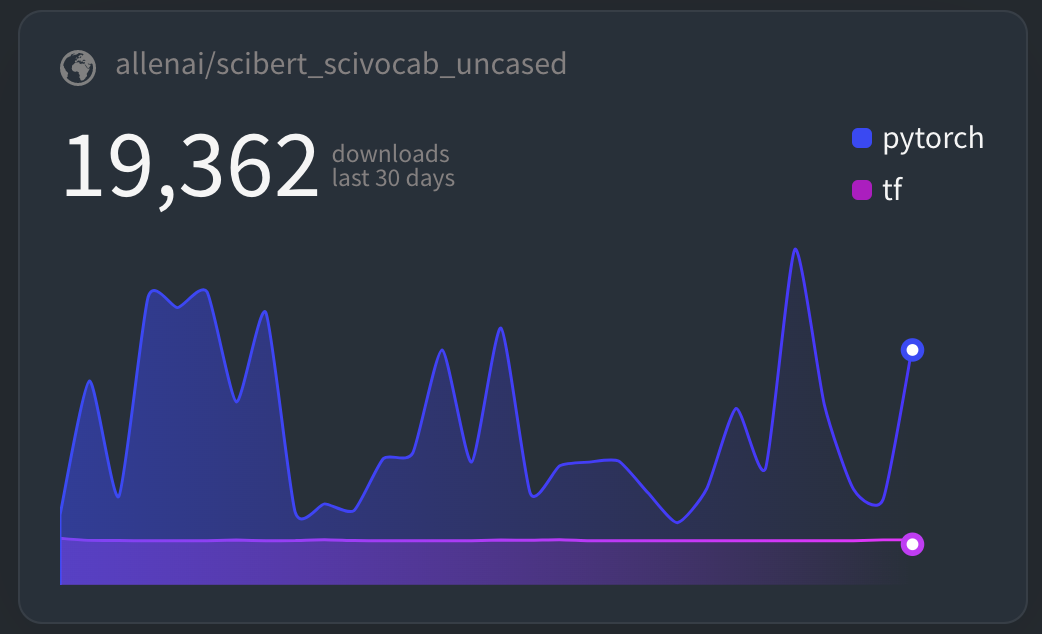
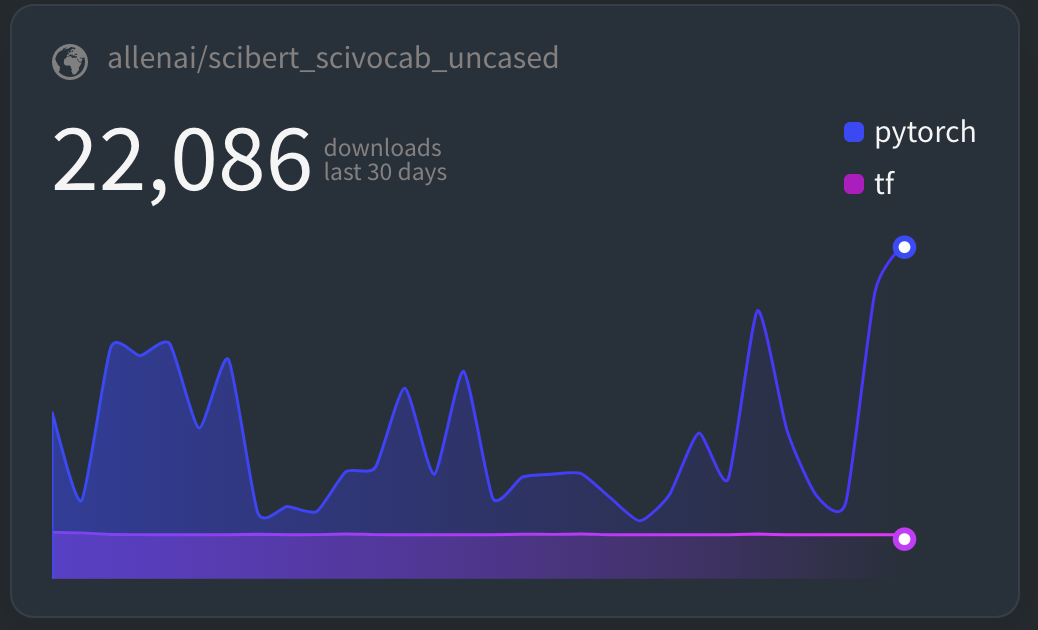
scibert

diff --git a/index.md b/index.md
@@ -17,7 +17,7 @@ please check my [Semantic Scholar](https://www.semanticscholar.org/author/Iz-Bel
 
 ### News
 
-- [5/2020] **SciBERT** has been downloaded close to [20,000 times](https://huggingface.co/allenai/scibert_scivocab_uncased) in the last [30 days](https://raw.githubusercontent.com/ibeltagy/ibeltagy.github.io/master/assets/scibert.png?token=AARORNIGTYRPHZQUQLQ7MPS6W47WM) 
+- [5/2020] **SciBERT** has been downloaded more than [20,000 times](https://huggingface.co/allenai/scibert_scivocab_uncased) in the last [30 days](https://raw.githubusercontent.com/ibeltagy/ibeltagy.github.io/master/assets/scibert.png?token=AARORNIGTYRPHZQUQLQ7MPS6W47WM)
 
 - [4/2020] **Longformer** is [out](https://twitter.com/i_beltagy/status/1254907063492206592)
 
